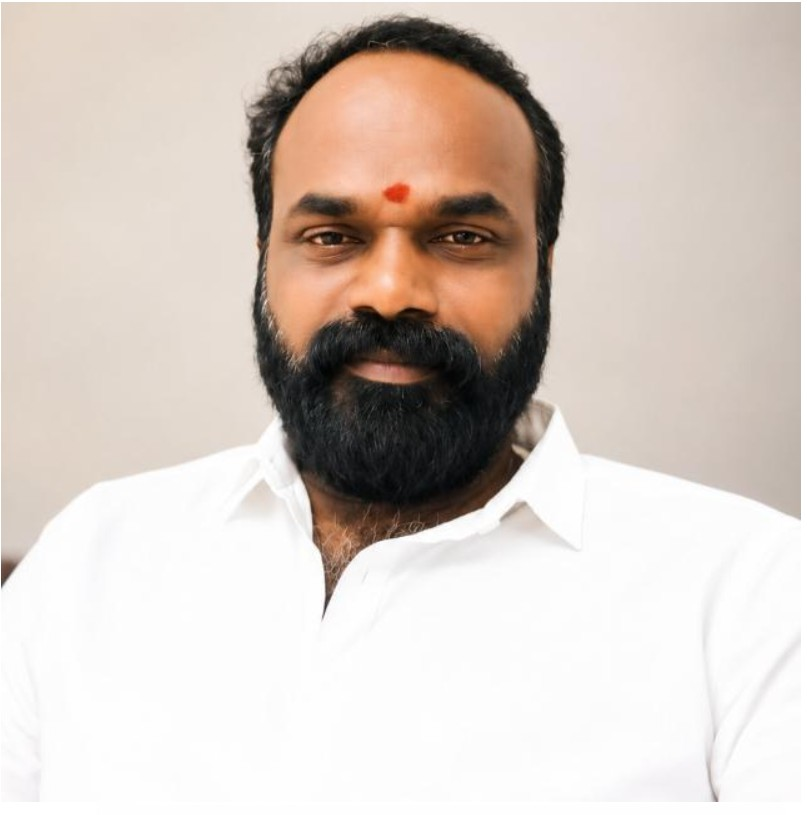
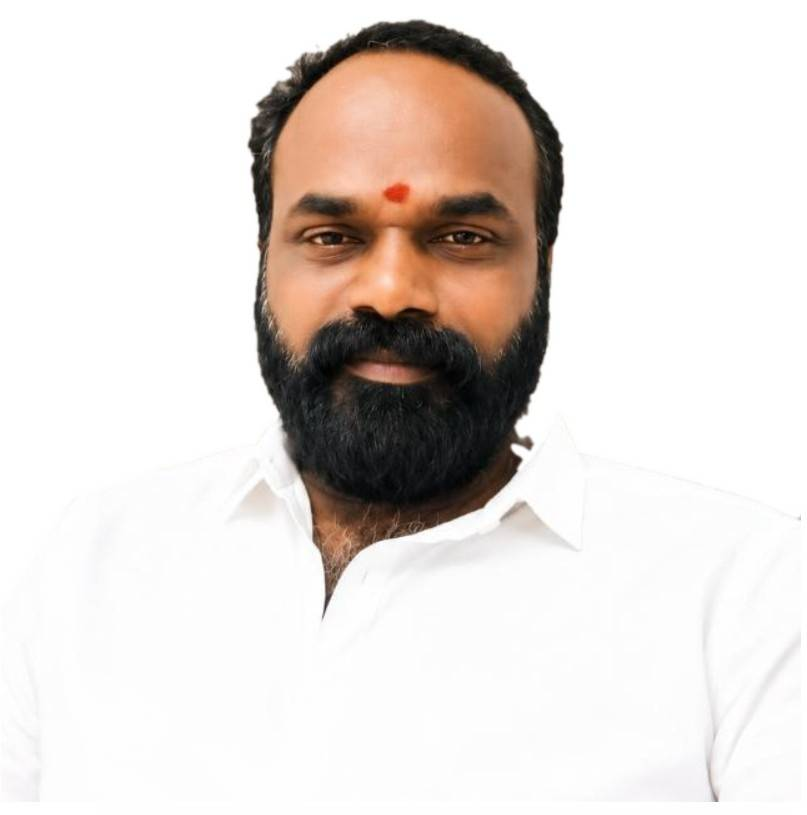
update

diff --git a/src/components/Hero.tsx b/src/components/Hero.tsx
@@ -51,7 +51,7 @@ const organizers = [
   {
     name: "చిత్తనూరి నరేష్ గుప్త",
     role: "కోశాధికారి",
-    image: "/about/naresh.jpeg",
+    image: "/about/naresh.jpg",
     phone: "+91 98488 330591",
     tel: "+9198488330591",
     email: "nareshchittanur@gmail.com",
@@ -260,7 +260,7 @@ export default function Hero() {
                   <FaCalendarAlt className="mx-auto text-lg text-[#a67816]" />
 
                   <p className="mt-2 text-2xl font-bold text-[#690015] sm:text-3xl">
-                    143వ
+                    144వ
                   </p>
 
                   <p className="mt-1 text-xs font-semibold text-[#725454] sm:text-sm">
@@ -284,15 +284,14 @@ export default function Hero() {
                 </div>
 
                 <p className="mt-3 text-justify text-xs leading-7 text-[#604b4b] sm:text-sm sm:leading-7">
-                  ఆర్య వైశ్య వివాహ ఉచిత పరిచయ వేదిక ప్రప్రథమంగా తేదీ
-                  30-11-2014 నుండి ప్రారంభించబడినది. 90 శాతం వధువులు,
-                  75–80 శాతం వరులు వివాహ సంపన్నత పొందియున్నారు. వివాహం
-                  చేసుకున్న వారి కుటుంబ సభ్యుల ఆశీర్వాద బలం మాకు ఎంతో
-                  స్ఫూర్తి, పట్టుదలను అందిస్తున్నాయి.
+                 ఆర్య వైశ్య వివాహ ఉచిత పరిచయ వేదిక ప్రప్రథమంగా తేదీ 30-11-2014 నుండి ప్రారంభించబడినది.
+                  గత 12 సంవత్సరాలుగా ఈ వేదిక విజయవంతంగా నిర్వహించబడుతూ, అనేక కుటుంబాలకు వివాహ
+                   సంబంధాలను అందిస్తోంది. 90 శాతం వధువులు, 75–80 శాతం వరులు వివాహ సంపన్నత పొందియున్నారు. వివాహం 
+                 చేసుకున్న వారి కుటుంబ సభ్యుల ఆశీర్వాద బలం మాకు ఎంతో స్ఫూర్తిని, పట్టుదలను అందిస్తున్నాయి.
                 </p>
 
                 <p className="mt-3 text-justify text-xs leading-7 text-[#604b4b] sm:text-sm sm:leading-7">
-                  ఈ వేదిక 143వది 4-10-2026న జరిగినది. మరిన్ని వేదికలు
+                  ఈ వేదిక 144వది 1-11-2026న జరిగినది. మరిన్ని వేదికలు
                   భావి తరాలకు అందాలని, శ్రీ వాసవి కన్యకా పరమేశ్వరి
                   అమ్మవారి అనుగ్రహం ఉండాలని ఆకాంక్షిస్తూ ఈ సేవా
                   కార్యక్రమాన్ని కొనసాగిస్తున్నాము.

diff --git a/src/app/(website)/about/page.tsx b/src/app/(website)/about/page.tsx
@@ -141,7 +141,7 @@ export default function AboutPage() {
                   </p>
 
                   <p>
-                    ఈ వేదిక 143వది 4-10-2026న జరిగినది. మరిన్ని
+                    ఈ వేదిక 144వది 1-11-2026న జరిగినది. మరిన్ని
                     వేదికలు భావి తరాలకు అందాలని, శ్రీ వాసవి కన్యకా
                     పరమేశ్వరి అమ్మవారి అనుగ్రహం ఉండాలని ఆకాంక్షిస్తూ
                     ఈ సేవా కార్యక్రమాన్ని కొనసాగిస్తున్నాము.
@@ -206,9 +206,9 @@ export default function AboutPage() {
                   <FaUsers className="text-lg text-[#f0d58f]" />
                 </div>
                 <div>
-                  <p className="text-sm font-bold">143వ పరిచయ వేదిక</p>
+                  <p className="text-sm font-bold">144వ పరిచయ వేదిక</p>
                   <p className="mt-0.5 text-xs text-white/80">
-                    04 అక్టోబర్ 2026
+                    01 నవంబర్ 2026
                   </p>
                 </div>
               </div>
@@ -284,9 +284,9 @@ export default function AboutPage() {
             {/* 143rd */}
             <JourneyCard
               icon={<FaUsers />}
-              title="143వ"
+              title="144వ"
               subtitle="పరిచయ వేదిక"
-              detail="04-10-2026"
+              detail="01-11-2026"
             />
 
             {/* ONLINE */}
